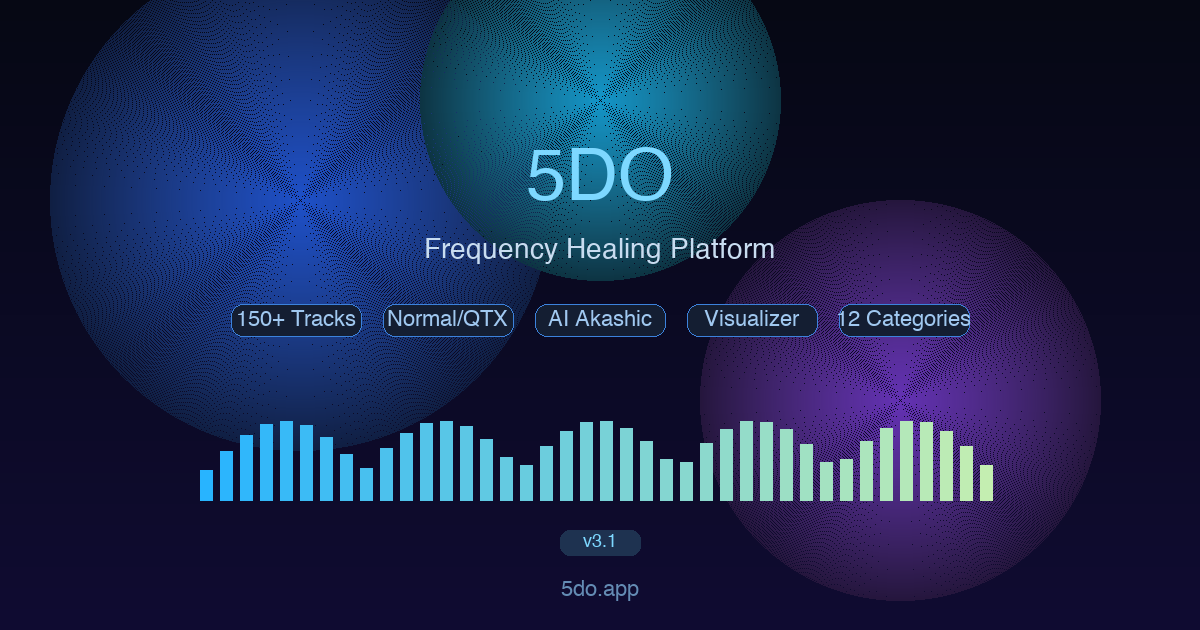
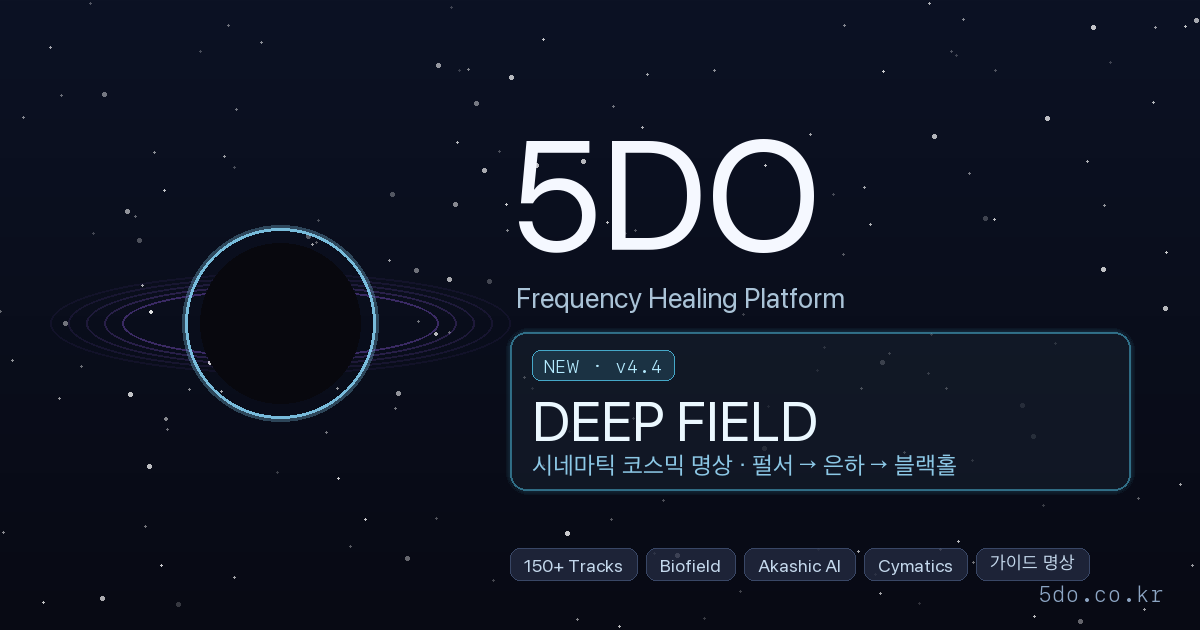
landing: refresh OG share preview for v4.4 (DEEP FIELD hero)
The old og-1200x630.png had v3.1 baked in, and the og/twitter
descriptions still listed pre-v4.4 features only.

- Regenerate og-1200x630.png with v4.4 / DEEP FIELD hero,
  black-hole motif, NEW chip, KR tagline, and feature pills
- Update og:description + twitter:description (KO + EN) to
  lead with the new DEEP FIELD cosmic-meditation program
- Add ?v=4.4 cache-buster to og:image / twitter:image so Kakao /
  Facebook / Twitter scrapers re-fetch instead of serving stale
- Save the Pillow generator as scripts/generate-og-image.py for
  future version bumps

diff --git a/public/landing/index.html b/public/landing/index.html
@@ -4,16 +4,16 @@
 <meta charset="UTF-8"/>
 <meta name="viewport" content="width=device-width,initial-scale=1"/>
 <title>5DO — 주파수 치유 플랫폼 v4.4</title>
-<meta name="description" content="150+ 힐링 주파수 트랙 · 바이오필드 (HRV·호흡·보이스 차크라) · 코스믹 모니터 · 3D 태양계 · 지구 레이라인 · 소울 코드 AI · 데일리 레조넌스 · 가이드 명상 · 자연음 믹서."/>
+<meta name="description" content="DEEP FIELD 시네마틱 코스믹 명상 NEW (v4.4) · 150+ 힐링 주파수 트랙 · 바이오필드 (HRV·호흡·보이스 차크라) · 코스믹 모니터 · 3D 태양계 · 지구 레이라인 · 소울 코드 AI · 데일리 레조넌스 · 가이드 명상 · Cymatics 비주얼라이저 · 자연음 믹서."/>
 <meta property="og:title" content="5DO — 주파수 치유 플랫폼 v4.4"/>
-<meta property="og:description" content="실시간 우주 공명 모니터링 + 바이오필드 + AI 영혼 분석 + 150+ 힐링 트랙."/>
-<meta property="og:image" content="https://5do.co.kr/landing/og-1200x630.png"/>
+<meta property="og:description" content="DEEP FIELD 코스믹 명상 NEW · 펄서·은하·블랙홀 3관문을 통과하는 14분 우주 침잠. 바이오필드 + 실시간 우주 공명 + AI 영혼 분석 + 150+ 힐링 트랙."/>
+<meta property="og:image" content="https://5do.co.kr/landing/og-1200x630.png?v=4.4"/>
 <meta property="og:url" content="https://5do.co.kr"/>
 <meta property="og:type" content="website"/>
 <meta name="twitter:card" content="summary_large_image"/>
 <meta name="twitter:title" content="5DO — 주파수 치유 플랫폼 v4.4"/>
-<meta name="twitter:description" content="바이오필드 + 실시간 우주 공명 + AI 영혼 분석 + 150+ 힐링 트랙"/>
-<meta name="twitter:image" content="https://5do.co.kr/landing/og-1200x630.png"/>
+<meta name="twitter:description" content="DEEP FIELD 코스믹 명상 NEW · 3관문 14분 우주 침잠 + 바이오필드 + 실시간 우주 공명 + AI 영혼 분석 + 150+ 힐링 트랙"/>
+<meta name="twitter:image" content="https://5do.co.kr/landing/og-1200x630.png?v=4.4"/>
 <link rel="icon" href="/landing/favicon-5d.svg" type="image/svg+xml"/>
 <link rel="alternate icon" href="/landing/favicon-512.png"/>
 <link rel="preconnect" href="https://fonts.googleapis.com">

diff --git a/public/landing/en/index.html b/public/landing/en/index.html
@@ -4,16 +4,16 @@
 <meta charset="UTF-8"/>
 <meta name="viewport" content="width=device-width,initial-scale=1"/>
 <title>5DO — Frequency Healing Platform v4.4</title>
-<meta name="description" content="150+ healing frequency tracks · Biofield (HRV · breath · voice chakra) · Cosmic Monitor · 3D Solar System · Ley-line Globe · Soul Code AI · Daily Resonance · Guided Meditation · Nature Mixer."/>
+<meta name="description" content="DEEP FIELD cinematic cosmic meditation NEW (v4.4) · 150+ healing frequency tracks · Biofield (HRV · breath · voice chakra) · Cosmic Monitor · 3D Solar System · Ley-line Globe · Soul Code AI · Daily Resonance · Guided Meditation · Cymatics Visualizer · Nature Mixer."/>
 <meta property="og:title" content="5DO — Frequency Healing Platform v4.4"/>
-<meta property="og:description" content="Real-time cosmic resonance + Biofield + AI Soul Reading + 150+ healing tracks."/>
-<meta property="og:image" content="https://5do.co.kr/landing/og-1200x630.png"/>
+<meta property="og:description" content="DEEP FIELD cosmic meditation NEW · 14-min descent through Pulsar, Galaxy, Black Hole. Biofield + live cosmic resonance + AI soul reading + 150+ healing tracks."/>
+<meta property="og:image" content="https://5do.co.kr/landing/og-1200x630.png?v=4.4"/>
 <meta property="og:url" content="https://5do.co.kr/landing/en/"/>
 <meta property="og:type" content="website"/>
 <meta name="twitter:card" content="summary_large_image"/>
 <meta name="twitter:title" content="5DO — Frequency Healing Platform v4.4"/>
-<meta name="twitter:description" content="Biofield + live cosmic resonance + AI soul reading + 150+ healing tracks"/>
-<meta name="twitter:image" content="https://5do.co.kr/landing/og-1200x630.png"/>
+<meta name="twitter:description" content="DEEP FIELD cosmic meditation NEW · 14-min · 3 gates + Biofield + live cosmic resonance + AI soul reading + 150+ healing tracks"/>
+<meta name="twitter:image" content="https://5do.co.kr/landing/og-1200x630.png?v=4.4"/>
 <link rel="icon" href="/landing/favicon-5d.svg" type="image/svg+xml"/>
 <link rel="alternate icon" href="/landing/favicon-512.png"/>
 <link rel="preconnect" href="https://fonts.googleapis.com">

diff --git a/scripts/generate-og-image.py b/scripts/generate-og-image.py
@@ -1,0 +1,152 @@
+#!/usr/bin/env python3
+"""Generate the 5DO OG share image (1200x630) for landing pages.
+
+Usage:
+    pip3 install --user Pillow
+    python3 scripts/generate-og-image.py
+
+Writes to public/landing/og-1200x630.png.
+When bumping versions / featured releases, edit the constants below
+(version chip text, hero feature name + tagline, pills) and re-run.
+Don't forget to bump the ?v= cache-buster on <meta property="og:image">
+so social-media scrapers re-fetch.
+"""
+from PIL import Image, ImageDraw, ImageFont
+import random
+
+W, H = 1200, 630
+OUT = "/Users/paulkpark/dev/5do-app/public/landing/og-1200x630.png"
+
+# ─── Fonts ────────────────────────────────────────
+SF = "/System/Library/Fonts/SFNS.ttf"
+SF_MONO = "/System/Library/Fonts/SFNSMono.ttf"
+KR = "/System/Library/Fonts/AppleSDGothicNeo.ttc"
+
+def f(path, size, idx=0):
+    try: return ImageFont.truetype(path, size, index=idx)
+    except: return ImageFont.truetype(path, size)
+
+font_title       = f(SF, 156)          # "5DO"
+font_subtitle    = f(SF, 28)           # "Frequency Healing Platform"
+font_new_label   = f(SF_MONO, 19)      # "NEW · v4.4"
+font_deepfield   = f(SF, 56)           # "DEEP FIELD"
+font_tagline_kr  = f(KR, 24)           # "시네마틱 코스믹 명상 · 3관문"
+font_pill        = f(SF, 18)
+font_pill_kr     = f(KR, 18)
+font_url         = f(SF_MONO, 22)
+font_version     = f(SF_MONO, 18)
+
+# ─── Canvas ───────────────────────────────────────
+img = Image.new("RGB", (W, H), (10, 10, 15))
+draw = ImageDraw.Draw(img, "RGBA")
+
+# ─── Background gradient (cosmic dark) ─────────
+# Vertical gradient: deep navy → near black
+for y in range(H):
+    t = y / H
+    r = int(8  + 4 * (1 - t))
+    g = int(10 + 8 * (1 - t))
+    b = int(20 + 16 * (1 - t))
+    draw.line([(0, y), (W, y)], fill=(r, g, b))
+
+# ─── Subtle starfield ────────────────────────────
+random.seed(42)
+for _ in range(160):
+    x = random.randint(0, W)
+    y = random.randint(0, H)
+    s = random.choice([1, 1, 1, 2])
+    a = random.randint(40, 200)
+    draw.ellipse([x-s, y-s, x+s, y+s], fill=(255, 255, 255, a))
+
+# ─── DEEP FIELD black hole motif (left side) ────
+# A subtle accretion disc + photon ring + event horizon
+cx, cy = 280, H // 2 + 8
+# Faint outer accretion (warm purple → cyan oval)
+for i, alpha in enumerate([18, 28, 40, 60, 95]):
+    rx = 230 - i * 18
+    ry = 50 - i * 4
+    draw.ellipse([cx-rx, cy-ry, cx+rx, cy+ry], outline=(140, 90, 220, alpha), width=2)
+# Photon ring (bright cyan)
+draw.ellipse([cx-95, cy-95, cx+95, cy+95], outline=(140, 220, 255, 200), width=3)
+draw.ellipse([cx-98, cy-98, cx+98, cy+98], outline=(140, 220, 255, 70), width=6)
+# Event horizon
+draw.ellipse([cx-80, cy-80, cx+80, cy+80], fill=(8, 8, 14))
+# Tiny distant stars near rings
+for sx, sy, sa in [(cx-130, cy-12, 220), (cx+155, cy+10, 180), (cx-115, cy+95, 130)]:
+    draw.ellipse([sx-1, sy-1, sx+2, sy+2], fill=(255, 255, 255, sa))
+
+# ─── Right block: branding + DEEP FIELD callout ─
+RIGHT_X = 510
+
+# 5DO wordmark
+draw.text((RIGHT_X, 100), "5DO", font=font_title, fill=(245, 248, 255))
+# Subtitle
+draw.text((RIGHT_X + 6, 280), "Frequency Healing Platform",
+          font=font_subtitle, fill=(170, 195, 215))
+
+# DEEP FIELD callout panel (rounded rect with soft glow)
+panel_x, panel_y = RIGHT_X, 332
+panel_w, panel_h = 620, 158
+# Soft outer glow rect (multiple)
+for i in range(5):
+    a = 35 - i * 6
+    draw.rounded_rectangle(
+        [panel_x - i, panel_y - i, panel_x + panel_w + i, panel_y + panel_h + i],
+        radius=18 + i, outline=(87, 217, 255, a), width=1
+    )
+# Main panel fill
+draw.rounded_rectangle(
+    [panel_x, panel_y, panel_x + panel_w, panel_y + panel_h],
+    radius=16, fill=(20, 28, 42, 180), outline=(87, 217, 255, 110), width=2
+)
+
+# NEW · v4.4 chip
+chip_x, chip_y = panel_x + 22, panel_y + 18
+chip_text = "NEW · v4.4"
+chip_w = draw.textlength(chip_text, font=font_new_label)
+draw.rounded_rectangle(
+    [chip_x, chip_y, chip_x + chip_w + 22, chip_y + 30],
+    radius=8, fill=(87, 217, 255, 35), outline=(87, 217, 255, 180), width=1
+)
+draw.text((chip_x + 11, chip_y + 4), chip_text, font=font_new_label, fill=(180, 235, 255))
+
+# DEEP FIELD title
+draw.text((panel_x + 22, panel_y + 54), "DEEP FIELD", font=font_deepfield, fill=(235, 248, 255))
+
+# Korean tagline INSIDE the panel
+draw.text((panel_x + 22, panel_y + 120),
+          "시네마틱 코스믹 명상 · 펄서 → 은하 → 블랙홀", font=font_tagline_kr,
+          fill=(140, 200, 230))
+
+# ─── Bottom pills row ────────────────────────────
+pills = [
+    ("150+ Tracks", font_pill, False),
+    ("Biofield",    font_pill, False),
+    ("Akashic AI",  font_pill, False),
+    ("Cymatics",    font_pill, False),
+    ("가이드 명상", font_pill_kr, True),
+]
+pill_y = 548
+pill_x = RIGHT_X
+pad_x  = 14
+gap    = 9
+for label, font_obj, korean in pills:
+    tw = draw.textlength(label, font=font_obj)
+    pw = tw + pad_x * 2
+    ph = 32
+    draw.rounded_rectangle(
+        [pill_x, pill_y, pill_x + pw, pill_y + ph],
+        radius=10, fill=(35, 42, 64, 200), outline=(80, 100, 140, 140), width=1
+    )
+    text_y = pill_y + (4 if korean else 6)
+    draw.text((pill_x + pad_x, text_y), label, font=font_obj, fill=(195, 215, 235))
+    pill_x += pw + gap
+
+# ─── Bottom-right corner: URL + version ─────────
+url = "5do.co.kr"
+uw = draw.textlength(url, font=font_url)
+draw.text((W - 36 - uw, H - 50), url, font=font_url, fill=(140, 165, 195))
+
+img.save(OUT, "PNG", optimize=True)
+print(f"OK -> {OUT}")
+print(f"size: {img.size}")
